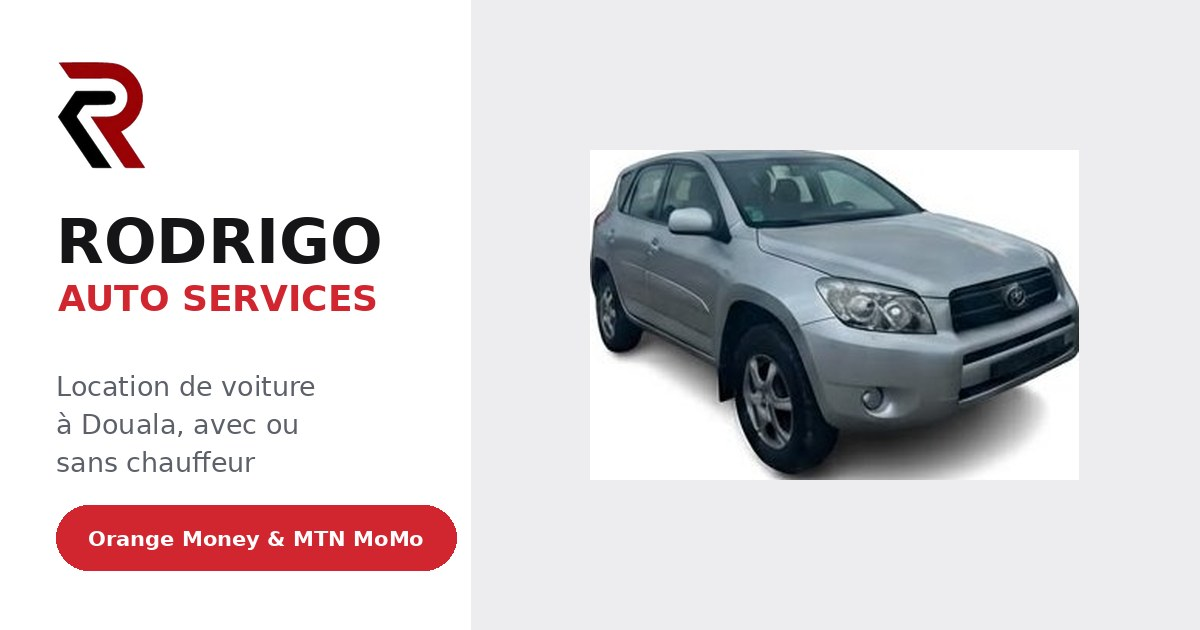
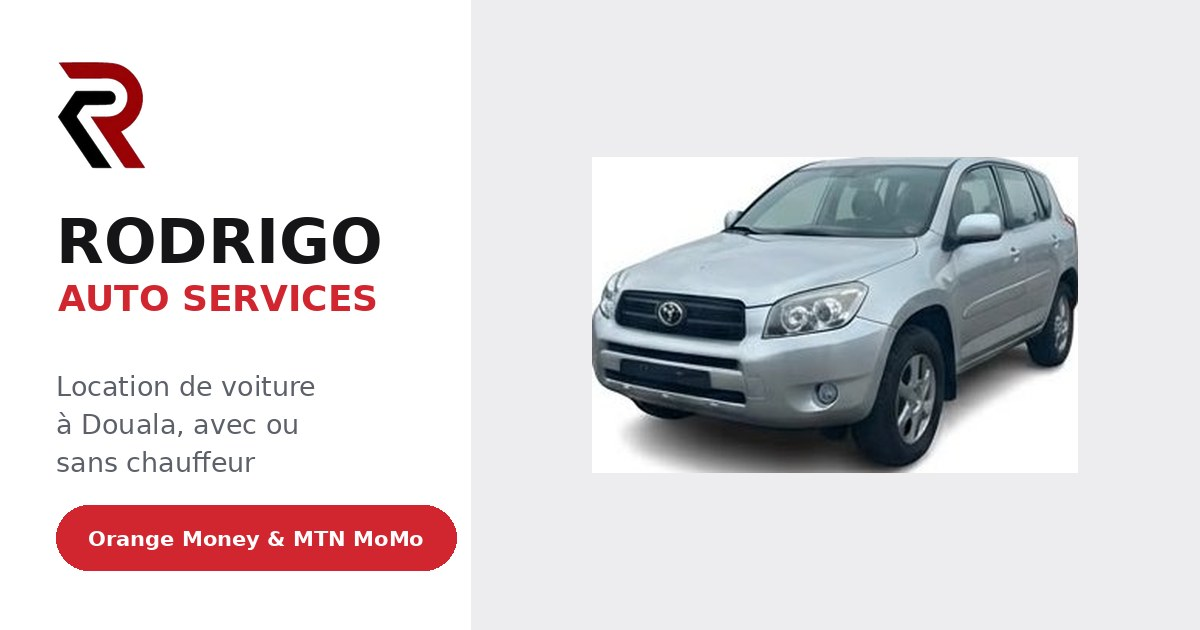
flotte: ajoute l'Avensis bleue et remet le RAV4 rouge en ligne
L'Avensis bleue en boîte automatique rejoint la flotte au même tarif que
les deux autres berlines. Les Avensis portent désormais leur couleur en
plus de leur boîte : trois berlines du même modèle devenaient
indistinguables pour le client.

Le RAV4 rouge et le RAV4 gris sont deux fiches distinctes, chacune avec
ses propres photos, plutôt qu'une seule fiche mélangeant deux voitures.

Changed region(s): [[0.4933, 0.2111, 0.925, 0.7841]]

diff --git a/lib/vehicles.data.ts b/lib/vehicles.data.ts
@@ -29,7 +29,7 @@ export const vehiclesData: Vehicle[] = [
       "Faible consommation"
     ],
     "available": true,
-    "variant": "Boîte manuelle"
+    "variant": "Grise, boîte manuelle"
   },
   {
     "id": "avensis-auto",
@@ -56,10 +56,37 @@ export const vehiclesData: Vehicle[] = [
       "Grand coffre"
     ],
     "available": true,
-    "variant": "Boîte automatique"
+    "variant": "Grise, boîte automatique"
   },
   {
-    "id": "rav4",
+    "id": "avensis-bleue",
+    "name": "Toyota Avensis",
+    "type": "Berline",
+    "pricePerDay": 25000,
+    "seats": 5,
+    "doors": 4,
+    "transmission": "Automatique",
+    "fuel": "Essence",
+    "airConditioning": true,
+    "gallery": [
+      "/cars/avensis-bleue-1.jpg",
+      "/cars/avensis-bleue-2.jpg",
+      "/cars/avensis-bleue-3.jpg",
+      "/cars/avensis-bleue-4.jpg"
+    ],
+    "bestFor": "Sobre et confortable pour les déplacements professionnels",
+    "description": "Berline bleu nuit en boîte automatique, intérieur soigné avec finitions bois. Le choix discret pour un rendez-vous d'affaires, un déplacement en famille ou un transfert aéroport.",
+    "features": [
+      "Climatisation",
+      "Boîte automatique",
+      "5 places",
+      "Grand coffre"
+    ],
+    "available": true,
+    "variant": "Bleue, boîte automatique"
+  },
+  {
+    "id": "rav4-grise",
     "name": "Toyota RAV4",
     "type": "SUV",
     "pricePerDay": 40000,
@@ -69,12 +96,12 @@ export const vehiclesData: Vehicle[] = [
     "fuel": "Essence",
     "airConditioning": true,
     "gallery": [
-      "/cars/rav4-1.jpg",
-      "/cars/rav4-2.jpg",
-      "/cars/rav4-3.jpg",
-      "/cars/rav4-4.jpg",
-      "/cars/rav4-5.jpg",
-      "/cars/rav4-6.jpg"
+      "/cars/rav4-grise-1.jpg",
+      "/cars/rav4-grise-2.jpg",
+      "/cars/rav4-grise-3.jpg",
+      "/cars/rav4-grise-4.jpg",
+      "/cars/rav4-grise-5.jpg",
+      "/cars/rav4-grise-6.jpg"
     ],
     "bestFor": "Routes dégradées, familles et bagages",
     "description": "SUV robuste et surélevé, idéal pour la ville comme pour les sorties hors de Douala. Confortable pour 5 personnes avec bagages.",
@@ -84,7 +111,38 @@ export const vehiclesData: Vehicle[] = [
       "Position de conduite haute",
       "Grand volume"
     ],
-    "available": true
+    "available": true,
+    "variant": "Grise",
+    "hero": true
+  },
+  {
+    "id": "rav4-rouge",
+    "name": "Toyota RAV4",
+    "type": "SUV",
+    "pricePerDay": 40000,
+    "seats": 5,
+    "doors": 5,
+    "transmission": "Automatique",
+    "fuel": "Essence",
+    "airConditioning": true,
+    "gallery": [
+      "/cars/rav4-rouge-1.jpg",
+      "/cars/rav4-rouge-2.jpg",
+      "/cars/rav4-rouge-3.jpg",
+      "/cars/rav4-rouge-4.jpg",
+      "/cars/rav4-rouge-5.jpg",
+      "/cars/rav4-rouge-6.jpg"
+    ],
+    "bestFor": "Sorties hors de Douala, bagages et confort",
+    "description": "Le même SUV en rouge : hauteur de caisse, coffre généreux et boîte automatique pour affronter la ville comme la route.",
+    "features": [
+      "Climatisation",
+      "Boîte automatique",
+      "Position de conduite haute",
+      "Grand volume"
+    ],
+    "available": true,
+    "variant": "Rouge"
   },
   {
     "id": "hilux",

diff --git a/lib/vehicles.ts b/lib/vehicles.ts
@@ -25,6 +25,8 @@ export interface Vehicle {
   available: boolean;
   /** true = pas encore en service ("bientôt disponible") */
   comingSoon?: boolean;
+  /** true = voiture mise en avant dans le hero de l'accueil (une seule) */
+  hero?: boolean;
 }
 
 // Supplément journalier si le client choisit un chauffeur (FCFA / jour).
@@ -42,6 +44,9 @@ export const availableVehicles = vehicles.filter((v) => v.available);
 export function vehicleLabel(v: Vehicle) {
   return v.variant ? `${v.name} — ${v.variant}` : v.name;
 }
+
+/** La voiture affichée dans le hero de l'accueil, à défaut la première. */
+export const heroVehicle = availableVehicles.find((v) => v.hero) ?? availableVehicles[0];
 
 export function findVehicle(id: string | undefined) {
   return id ? vehicles.find((v) => v.id === id) : undefined;

diff --git a/lib/admin/vehicle-form.ts b/lib/admin/vehicle-form.ts
@@ -71,6 +71,7 @@ export function toVehicleFile(v: VehiclePayload, gallery: string[]) {
     description: v.description.trim(),
     features: (v.features ?? []).map((f) => f.trim()).filter(Boolean),
     available: v.available !== false,
-    ...(v.comingSoon ? { comingSoon: true } : {})
+    ...(v.comingSoon ? { comingSoon: true } : {}),
+    ...(v.hero ? { hero: true } : {})
   };
 }

diff --git a/scripts/prepare-assets.py b/scripts/prepare-assets.py
@@ -69,23 +69,40 @@ def split_fleet():
     tile(m, (0, r1, xm, r2), 'avensis-manuelle-4')  # poste de conduite
     tile(m, (xm, r1, W, r2), 'avensis-manuelle-5')  # sièges avant
 
+    # Toyota Avensis bleue — planche 2x2
+    b = Image.open(f'{SRC}/avensis-bleue.jpeg')
+    W, H = b.size
+    bx, by = 578, 458
+    tile(b, (0, 0, bx, by), 'avensis-bleue-1')      # 3/4 avant
+    tile(b, (0, by, bx, H), 'avensis-bleue-2')      # 3/4 avant, autre angle
+    tile(b, (bx, by, W, H), 'avensis-bleue-3')      # profil
+    tile(b, (bx, 0, W, by), 'avensis-bleue-4')      # tableau de bord, boîte auto
+
     # Toyota RAV4 gris — planche 2 colonnes x 3 rangées, fond blanc
     g = Image.open(f'{SRC}/rav4-grise.jpeg')
     gx = [(21, 437), (460, 876)]
     gy = [(20, 335), (425, 735), (812, 1128)]
-    tile(g, (gx[0][0], gy[0][0], gx[0][1], gy[0][1]), 'rav4-1')  # 3/4 avant
-    tile(g, (gx[1][0], gy[1][0], gx[1][1], gy[1][1]), 'rav4-2')  # profil avant
-    tile(g, (gx[1][0], gy[0][0], gx[1][1], gy[0][1]), 'rav4-3')  # 3/4 arrière
-    tile(g, (gx[1][0], gy[2][0], gx[1][1], gy[2][1]), 'rav4-4')  # arrière
-    tile(g, (gx[0][0], gy[1][0], gx[0][1], gy[1][1]), 'rav4-5')  # tableau de bord
-    tile(g, (gx[0][0], gy[2][0], gx[0][1], gy[2][1]), 'rav4-6')  # sièges arrière
+    tile(g, (gx[0][0], gy[0][0], gx[0][1], gy[0][1]), 'rav4-grise-1')  # 3/4 avant
+    tile(g, (gx[1][0], gy[1][0], gx[1][1], gy[1][1]), 'rav4-grise-2')  # profil avant
+    tile(g, (gx[1][0], gy[0][0], gx[1][1], gy[0][1]), 'rav4-grise-3')  # 3/4 arrière
+    tile(g, (gx[1][0], gy[2][0], gx[1][1], gy[2][1]), 'rav4-grise-4')  # arrière
+    tile(g, (gx[0][0], gy[1][0], gx[0][1], gy[1][1]), 'rav4-grise-5')  # tableau de bord
+    tile(g, (gx[0][0], gy[2][0], gx[0][1], gy[2][1]), 'rav4-grise-6')  # sièges arrière
 
     # Toyota Hilux — photo unique, pas de planche à découper
     h = Image.open(f'{SRC}/hilux.jpeg')
     tile(h, (0, 0, h.width, h.height), 'hilux-1')
 
-    # La planche du RAV4 rouge reste dans assets-source/ mais n'est plus publiée :
-    # le véhicule de l'agence est le RAV4 gris ci-dessus.
+    # Toyota RAV4 rouge — planche 3x2 (séparateurs gris détectés à ces positions)
+    r = Image.open(f'{SRC}/rav4.jpeg')
+    cx = [(12, 444), (453, 884)]
+    cy = [(12, 394), (403, 796), (806, 1186)]
+    tile(r, (cx[1][0], cy[1][0], cx[1][1], cy[1][1]), 'rav4-rouge-1')  # 3/4 avant
+    tile(r, (cx[1][0], cy[0][0], cx[1][1], cy[0][1]), 'rav4-rouge-2')  # face avant
+    tile(r, (cx[0][0], cy[2][0], cx[0][1], cy[2][1]), 'rav4-rouge-3')  # profil
+    tile(r, (cx[1][0], cy[2][0], cx[1][1], cy[2][1]), 'rav4-rouge-4')  # arrière
+    tile(r, (cx[0][0], cy[0][0], cx[0][1], cy[0][1]), 'rav4-rouge-5')  # tableau de bord
+    tile(r, (cx[0][0], cy[1][0], cx[0][1], cy[1][1]), 'rav4-rouge-6')  # poste de conduite
 
 
 def extract_mark():
@@ -139,7 +156,7 @@ def write_brand(mark):
 
 def write_og(mark):
     """Carte de partage 1200x630 : identité à gauche, vraie photo à droite."""
-    photo = Image.open(f'{CARS}/rav4-2.jpg').convert('RGB')
+    photo = Image.open(f'{CARS}/rav4-grise-1.jpg').convert('RGB')
     pp = photo.load()
     bx0, by0, bx1, by1 = photo.width, photo.height, 0, 0
     for y in range(photo.height):
